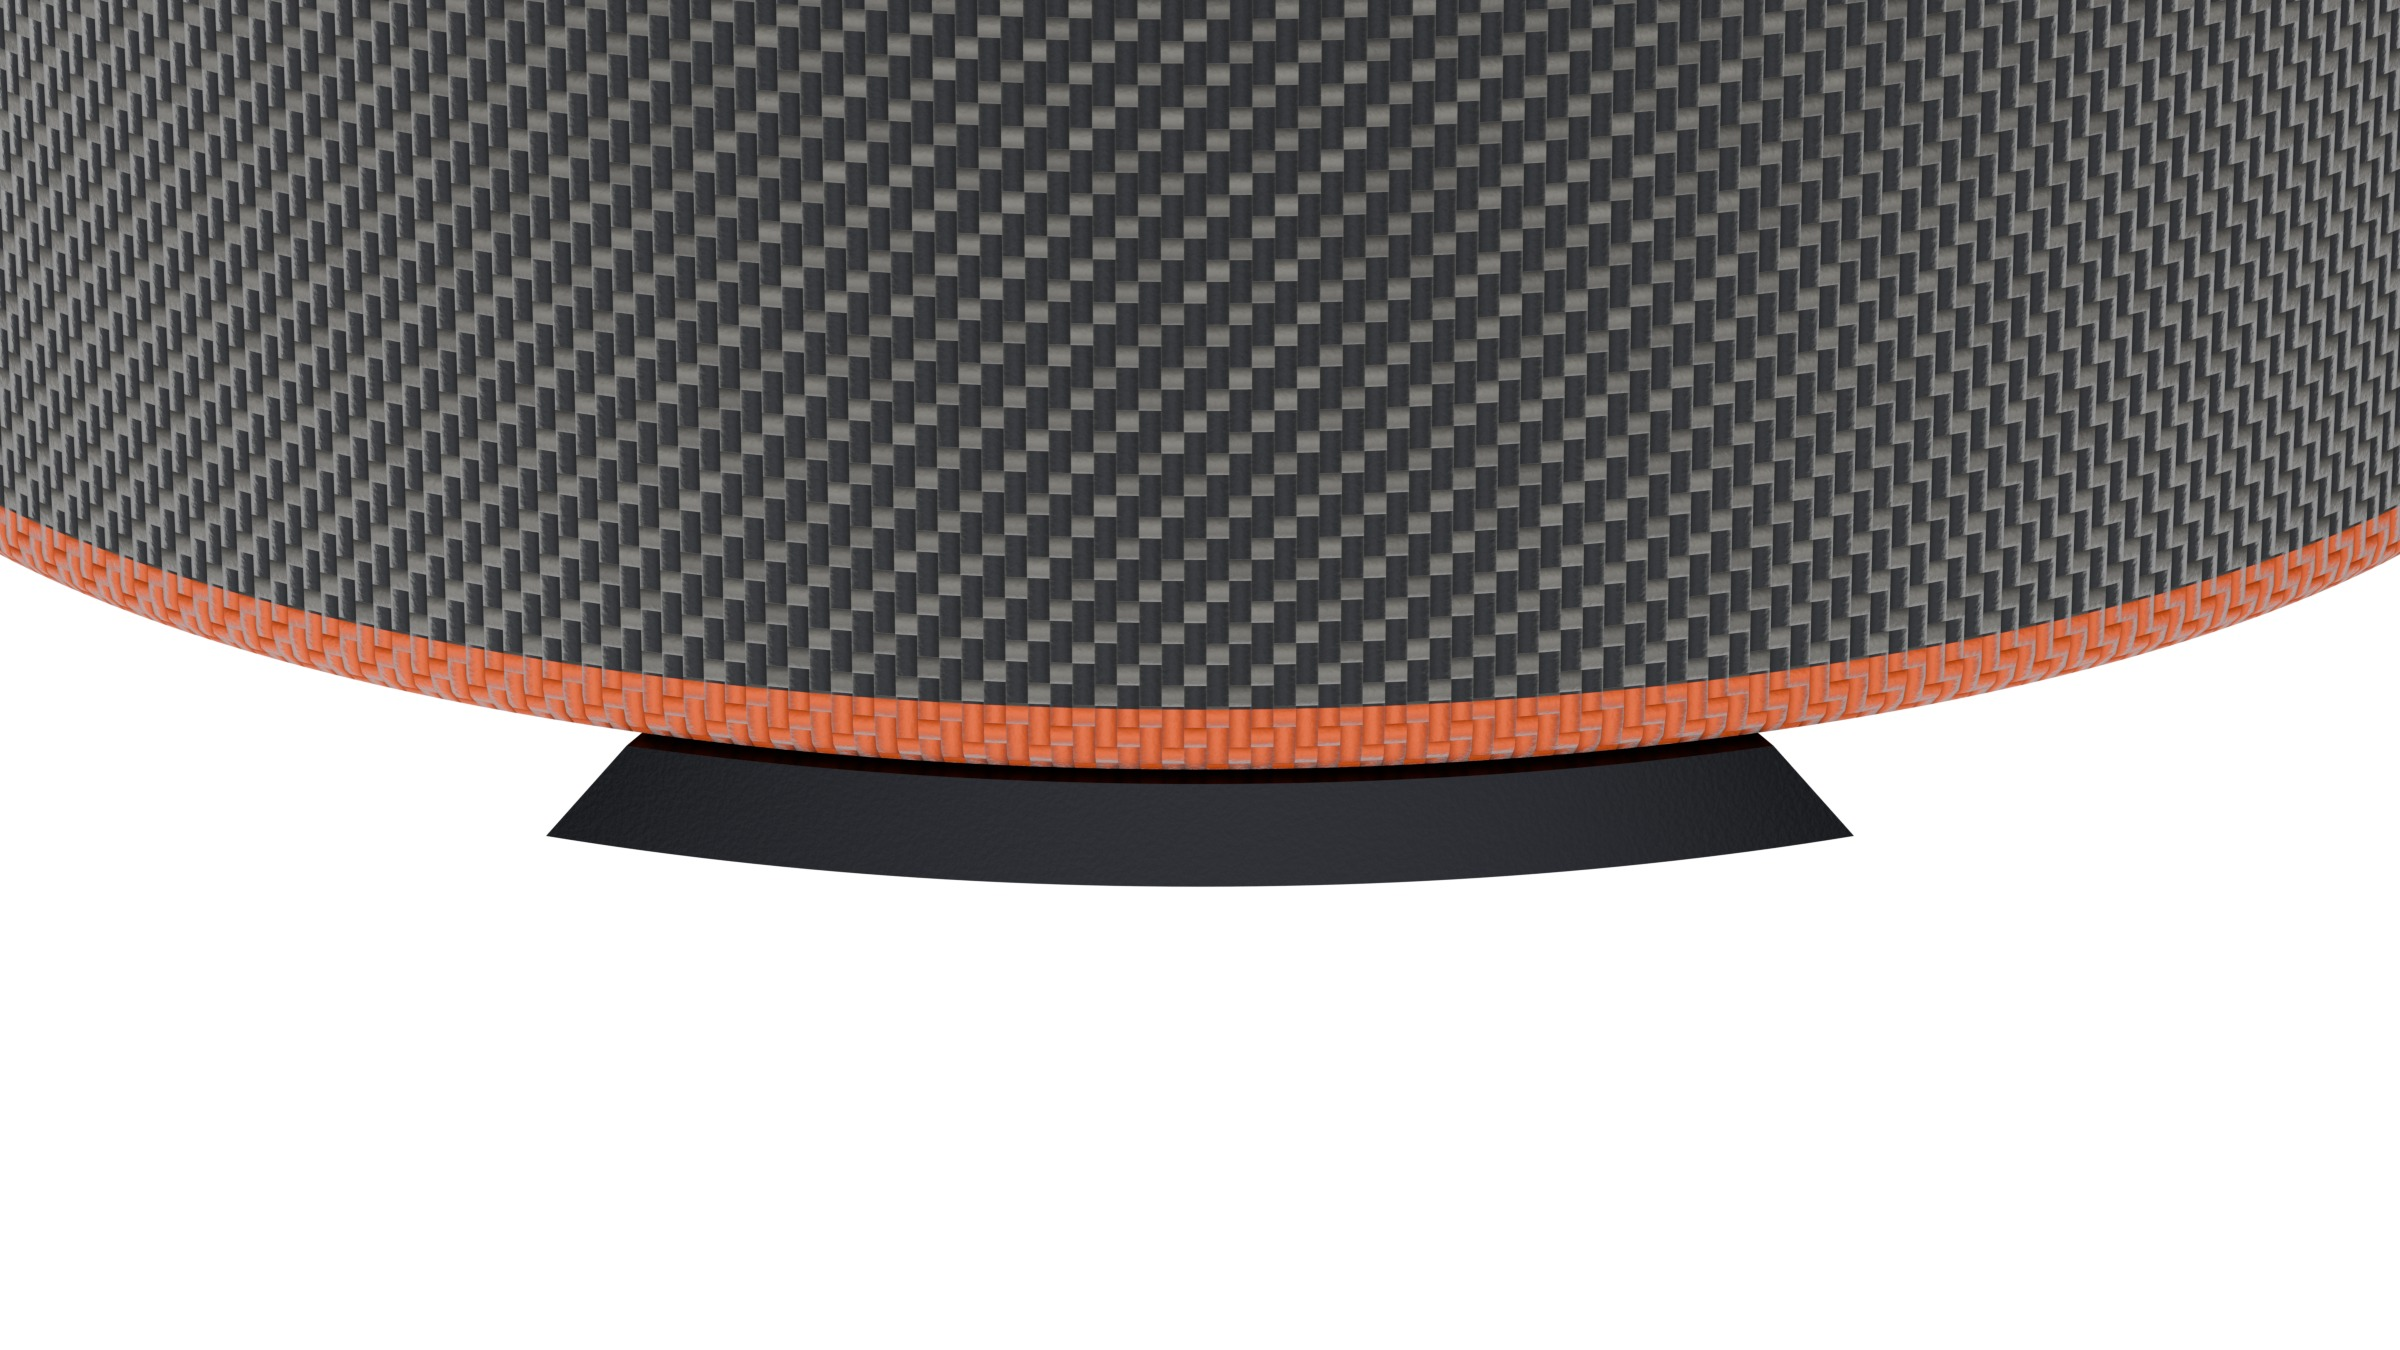
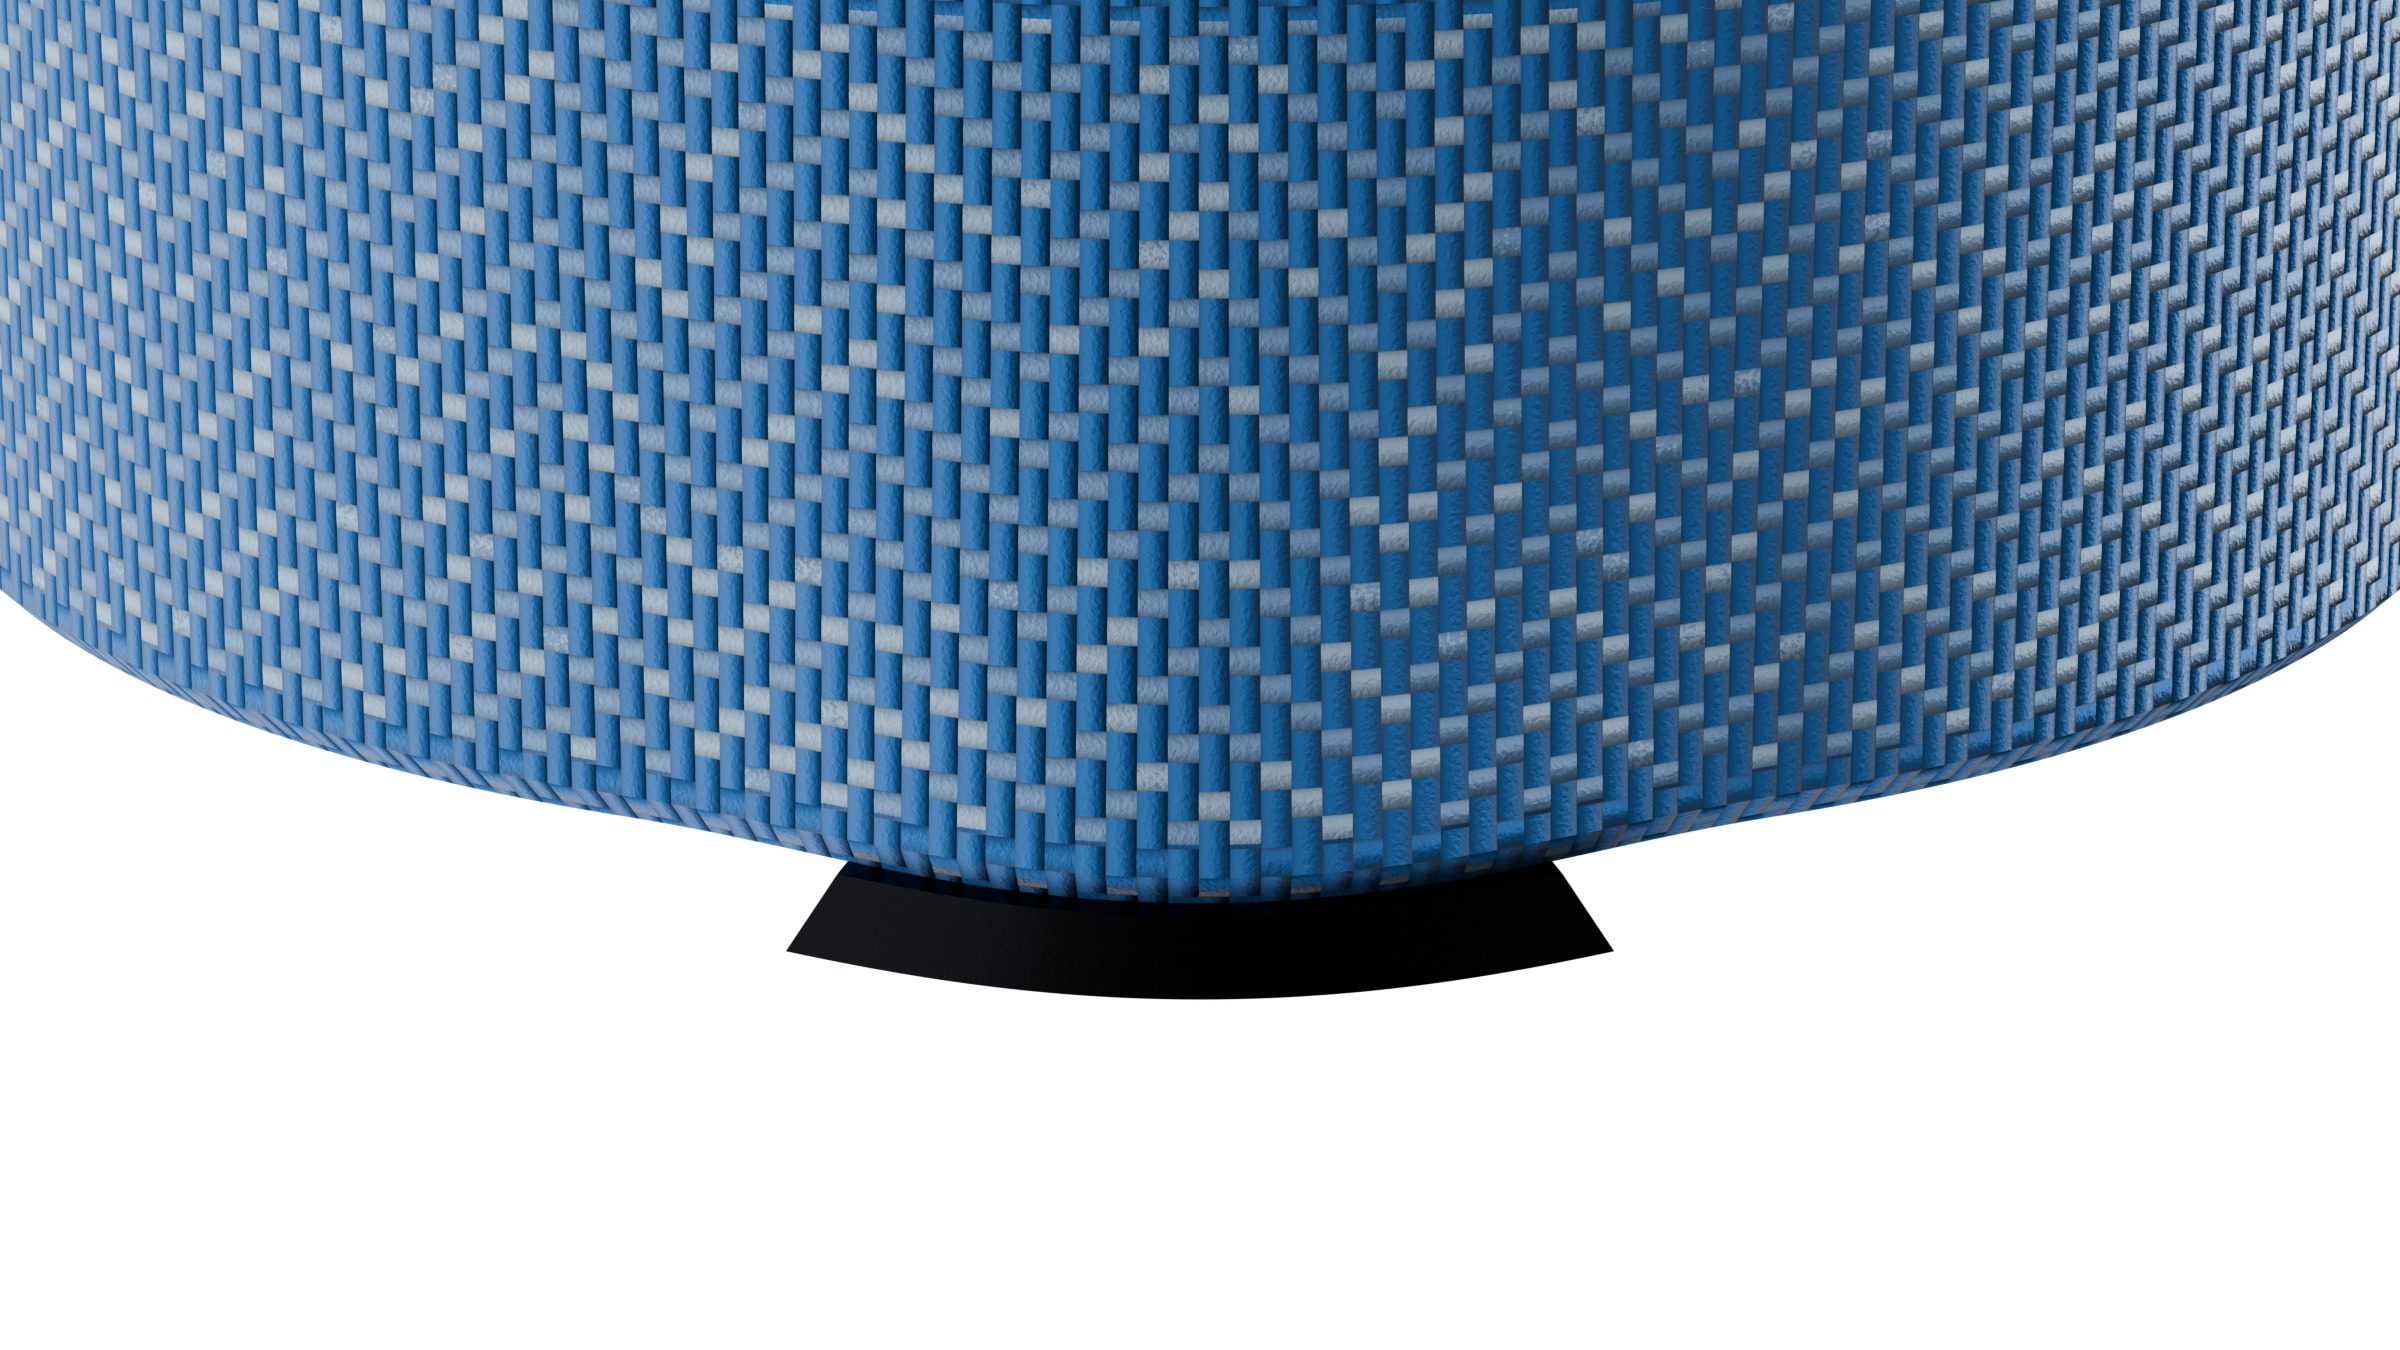
Deck: AuraWake sport-loop bracelet (steel loop, herringbone blue weave, wedge pod with charging foot)

diff --git a/deck/blender/aura.py b/deck/blender/aura.py
@@ -227,7 +227,7 @@ def fabric(name, color):
     nt.links.new(weave, bp.inputs['Height']); nt.links.new(bp.outputs[0], b.inputs['Normal'])
     return m
 
-def loop_fabric(name, dark, light, edge, R=0.031, h=0.020, lift=0.0018, p=0.00042):
+def loop_fabric(name, dark, light, edge, R=0.031, h=0.020, lift=0.0016, p=0.0006):
     """Woven strap, thread by thread: a 2/1 twill (diagonal), warp threads graphite, weft threads melange light grey,
     each thread rounded in the bump, fibre fuzz, the two edges woven in orange. Coordinates: u along the strap
     (angle x R), v across it (z)."""
@@ -247,7 +247,8 @@ def loop_fabric(name, dark, light, edge, R=0.031, h=0.020, lift=0.0018, p=0.0004
     v = P.outputs[2]
     fu, fv = op('DIVIDE', u, p), op('DIVIDE', v, p)
     iu, iv = op('FLOOR', fu), op('FLOOR', fv)
-    tw = op('FLOORED_MODULO', op('SUBTRACT', iu, iv), 3.0)
+    sgn = op('SUBTRACT', op('MULTIPLY', op('FLOORED_MODULO', op('FLOOR', op('DIVIDE', iu, 6.0)), 2.0), 2.0), 1.0)
+    tw = op('FLOORED_MODULO', op('ADD', iu, op('MULTIPLY', sgn, iv)), 3.0)   # herringbone twill
     weft = op('LESS_THAN', tw, 0.5)                       # weft on top in one cell of three, shifted each row: twill
     ru = op('SINE', op('MULTIPLY', op('FRACT', fu), math.pi))   # thread section, rounded
     rv = op('SINE', op('MULTIPLY', op('FRACT', fv), math.pi))
@@ -259,12 +260,13 @@ def loop_fabric(name, dark, light, edge, R=0.031, h=0.020, lift=0.0018, p=0.0004
     nt.links.new(h2, bp.inputs['Height']); nt.links.new(bp.outputs[0], b.inputs['Normal'])
     # colour: melange weft (light grey with fibre variation) over graphite warp; orange threads on both edges
     mel = nt.nodes.new('ShaderNodeMix'); mel.data_type = 'RGBA'; mel.inputs[6].default_value = light
-    mel.inputs[7].default_value = tuple(c * 0.55 for c in light[:3]) + (1,)
+    mel.inputs[6].default_value = tuple(0.5 * a + 0.5 * b for a, b in zip(dark[:3], light[:3])) + (1,)
+    mel.inputs[7].default_value = light
     cell = nt.nodes.new('ShaderNodeCombineXYZ'); nt.links.new(iu, cell.inputs[0]); nt.links.new(iv, cell.inputs[1])
     vn = nt.nodes.new('ShaderNodeTexWhiteNoise'); vn.noise_dimensions = '3D'; nt.links.new(cell.outputs[0], vn.inputs['Vector'])
-    nt.links.new(op('ADD', op('MULTIPLY', vn.outputs['Value'], 0.7), op('MULTIPLY', nz.outputs['Fac'], 0.3)), mel.inputs['Factor'])
+    nt.links.new(op('GREATER_THAN', op('ADD', op('MULTIPLY', vn.outputs['Value'], 0.8), op('MULTIPLY', nz.outputs['Fac'], 0.2)), 0.62), mel.inputs['Factor'])
     col_ = nt.nodes.new('ShaderNodeMix'); col_.data_type = 'RGBA'; col_.inputs[6].default_value = dark
-    nt.links.new(op('MULTIPLY', weft, 0.85), col_.inputs['Factor']); nt.links.new(mel.outputs[2], col_.inputs[7])
+    nt.links.new(weft, col_.inputs['Factor']); nt.links.new(mel.outputs[2], col_.inputs[7])
     edge_m = op('MAXIMUM', op('LESS_THAN', v, lift + 0.0015), op('GREATER_THAN', v, lift + h - 0.0015))
     fin = nt.nodes.new('ShaderNodeMix'); fin.data_type = 'RGBA'; fin.inputs[7].default_value = edge
     nt.links.new(col_.outputs[2], fin.inputs[6]); nt.links.new(edge_m, fin.inputs['Factor'])
@@ -276,7 +278,7 @@ def loop_fabric(name, dark, light, edge, R=0.031, h=0.020, lift=0.0018, p=0.0004
     return m
 
 TABLE = SHOT == 'table'
-STUDIO = SHOT in ('foot', 'persp_band', 'table', 'front', 'back', 'top', 'bottom', 'cable', 'persp', 'lit', 'band', 'persp_back')
+STUDIO = SHOT in ('pod_side', 'foot', 'persp_band', 'table', 'front', 'back', 'top', 'bottom', 'cable', 'persp', 'lit', 'band', 'persp_back')
 if MODE == 'real':
     MATS = {
         'body': body_real('body', srgb('#2c2d31')),
@@ -293,7 +295,8 @@ if MODE == 'real':
         'dots': emit('dots', srgb('#ffd9a0'), 7.0),
         'band': principled('band', srgb('#2a2b2f'), rough=0.62),
         'fabric': fabric('fabric', srgb('#1c1d20')),
-        'loop': loop_fabric('loop', srgb('#2a2b2f'), srgb('#76746f'), srgb('#d9592a')),
+        'loop': loop_fabric('loop', srgb('#3f7cc6'), srgb('#b3cfee'), srgb('#3f7cc6')),
+        'steel': bump_tex(principled('steel', srgb('#1c1d20'), metal=1.0, rough=0.36), 'noise', 9000, 0.04),
         'modalu': bump_tex(principled('modalu', srgb('#2c2d31'), metal=1.0, rough=0.38), 'noise', 9000, 0.05),
         'cable': bump_tex(principled('cable', srgb('#0e0e10'), rough=0.8), 'wave', 420, 0.5),
         'plug': principled('plug', srgb('#0a0a0b'), rough=0.6),
@@ -301,7 +304,7 @@ if MODE == 'real':
 else:
     T = {'alu': 0.86, 'grille': 0.42, 'rubber': 0.3, 'print': 0.4, 'pin': 0.75, 'band': 0.5, 'cable': 0.25, 'dots': 0.28,
          'led_front': 0.25, 'phone': 0.88, 'screen': 0.30, 'ui': 0.92, 'card': 0.5, 'metal': 0.74, 'glass': 0.98,
-         'frame': 0.96, 'fabric': 0.5, 'loop': 0.5, 'modalu': 0.4, 'slat': 0.80, 'pane': 0.90, 'cap': 0.70, 'plug': 0.3}
+         'frame': 0.96, 'fabric': 0.5, 'loop': 0.62, 'steel': 0.3, 'modalu': 0.4, 'slat': 0.80, 'pane': 0.90, 'cap': 0.70, 'plug': 0.3}
     MATS = {k: toon(k, grey(v)) for k, v in T.items()}
     MATS['body'] = body_toon('body', grey(0.86))
     MATS['shell'] = toon('shell', grey(0.86))
@@ -509,39 +512,44 @@ def frame(name, sx, sy, sz, bar, mat, loc):
     return [rbox(f'{name}{i}', w, d, sz, 0.0, 0.0004, mat, (x + dx, y + dy, z), sp=1, se=2) for i, (w, d, dx, dy) in enumerate((
         (sx, bar, 0, -(sy - bar) / 2), (sx, bar, 0, (sy - bar) / 2), (bar, sy, -(sx - bar) / 2, 0), (bar, sy, (sx - bar) / 2, 0)))]
 
-def strap_ring(name, R, h, t, z, flat=None, arc=None, n=240, cr=0.0009):
-    """Strap as a ring with the axis vertical (lying on its edge). flat=(angle, D) flattens it against the pod;
-    arc=(a0, a1) makes an open segment (the overlapping tail)."""
+def bulge_fn(ac, hw, amount):
+    """Outward swelling of the fabric over the sensor pod (cosine window around angle ac)."""
+    def b(a):
+        d = math.atan2(math.sin(a - ac), math.cos(a - ac))
+        return amount * 0.5 * (1 + math.cos(math.pi * d / hw)) if abs(d) < hw else 0.0
+    return b
+
+def strap_band(name, R, h, t, z, mat, bulge=None, arc=None, n=360, nz=12, cr=0.0008):
+    """Woven strap with its axis vertical (lying on its edge). Inner face (wrist side) stays a clean cylinder; over the
+    pod the outer face swells, most at the bottom edge and fading to nothing at the top edge (a wedge)."""
     bm = bmesh.new(); rings = []
     a0, a1 = arc if arc else (0.0, 2 * math.pi)
-    m = n if not arc else max(8, int(n * (a1 - a0) / (2 * math.pi)))
+    m = n if not arc else max(12, int(n * abs(a1 - a0) / (2 * math.pi)))
     for i in range(m + (1 if arc else 0)):
-        a = a0 + (a1 - a0) * i / m
-        r = R
-        if flat:
-            c = math.cos(a - flat[0])
-            if c > 1e-3: r = min(R, flat[1] / c)
-        pts = []
-        for (cx, cz, q0) in ((r - cr, z + h - cr, 0), (r - t + cr, z + h - cr, 90), (r - t + cr, z + cr, 180), (r - cr, z + cr, 270)):
-            for k in range(4):
-                q = math.radians(q0 + 90 * k / 3); pts.append((cx + cr * math.cos(q), cz + cr * math.sin(q)))
-        rings.append([bm.verts.new((rr * math.cos(a), rr * math.sin(a), zz)) for rr, zz in pts])
+        a = a0 + (a1 - a0) * i / m; b = bulge(a) if bulge else 0.0
+        prof = [(R - t, z + cr), (R - t, z + h - cr), (R - t + cr, z + h), (R - cr, z + h)]
+        for k in range(nz + 1):
+            zz = z + h - cr - (h - 2 * cr) * k / nz; zn = (zz - z) / h
+            prof.append((R + b * (1 - zn) ** 1.3, zz))
+        prof += [(R + b - cr, z), (R - t + cr, z)]
+        rings.append([bm.verts.new((r * math.cos(a), r * math.sin(a), zz)) for r, zz in prof])
     k = len(rings[0])
     for i in range(len(rings) - (1 if arc else 0)):
         A, B = rings[i], rings[(i + 1) % len(rings)]
         for q in range(k): bm.faces.new((A[q], A[(q + 1) % k], B[(q + 1) % k], B[q]))
     if arc:
-        for ring in (rings[0], rings[-1]): bm.faces.new(ring if ring is rings[-1] else list(reversed(ring)))
-    return link(name, bm, 'loop')
+        bm.faces.new(list(reversed(rings[0]))); bm.faces.new(rings[-1])
+    bmesh.ops.recalc_face_normals(bm, faces=bm.faces)
+    return link(name, bm, mat)
 
-def foot_bm(R, t, a0, a1, hgt, flare, spread=0.045, n=48):
-    """Charging foot under the strap's lower edge: flush with the inside (nothing touches the wrist), widening slightly
-    outward and along the strap as it goes down, to a flat contact face."""
+def foot_bm(R, t, a0, a1, hgt, flare, bulge, spread=0.03, n=64):
+    """Charging foot = the pod's lower end, out of the strap's lower edge: flush with the inside, as thick as the
+    fabric swelling at the bottom, widening slightly outward and along the strap to a flat contact face."""
     bm = bmesh.new(); rings = []
     for i in range(n + 1):
         k = i / n; at = a0 + (a1 - a0) * k; ab = a0 - spread + (a1 - a0 + 2 * spread) * k
         P = lambda a, r, z: bm.verts.new((r * math.cos(a), r * math.sin(a), z))
-        rings.append([P(at, R - t, hgt), P(at, R, hgt), P(ab, R + flare, 0.0), P(ab, R - t, 0.0)])
+        rings.append([P(at, R - t, hgt), P(at, R + bulge(at), hgt), P(ab, R + bulge(at) + flare, 0.0), P(ab, R - t, 0.0)])
     for i in range(n):
         A, B = rings[i], rings[i + 1]
         for q in range(4): bm.faces.new((A[q], A[(q + 1) % 4], B[(q + 1) % 4], B[q]))
@@ -549,17 +557,24 @@ def foot_bm(R, t, a0, a1, hgt, flare, spread=0.045, n=48):
     bmesh.ops.recalc_face_normals(bm, faces=bm.faces)
     return bm
 
-def build_bracelet(z0=0.0, R=0.031, h=0.020, t=0.0034, lift=0.0018):
-    """Woven loop strap (owner refs: Sport Loop), graphite melange with orange edges, closed, resting on its edge. The
-    sensor pod is woven into the strap (no bump inside); only its charging foot shows, under the lower edge."""
-    ap = math.radians(-60)
-    parts = [strap_ring('strap', R, h, t, lift)]
-    ad = ap + math.pi
-    parts.append(strap_ring('tail', R + t, h, t * 0.8, lift, arc=(ad - 0.05, ad + 1.25)))
-    parts.append(link('foot', foot_bm(R, t, ap - 0.36, ap + 0.36, lift, 0.0007), 'modalu'))
-    lp = frame('dring', 0.0074 + 2 * t, h + 0.0034, 0.0032, 0.0014, 'modalu', (0, 0, 0))
-    e = bpy.data.objects.new('dring', None); col.objects.link(e)
-    e.location = ((R + t / 2) * math.cos(ad), (R + t / 2) * math.sin(ad), lift + h / 2); e.rotation_euler = (math.pi / 2, 0, ad + math.pi / 2)
+AP = math.radians(20)   # sensor pod angle (back right); the steel loop sits opposite (front left)
+
+def build_bracelet(z0=0.0, R=0.031, h=0.020, t=0.0024, lift=0.0016):
+    """Sport-loop strap (owner ref): one woven band, fixed to a simple black satin steel loop, round the wrist, through
+    the loop, folded back and closed with hook-and-loop on the outside. The sensor pod is a wedge inside the weave,
+    opposite the loop: thick at the bottom, where it leaves the strap as the flat charging foot, thin at the top; the
+    fabric swells outward over it, the wrist side stays smooth."""
+    ad = AP + math.pi; tt = t * 0.9
+    bul = bulge_fn(AP, 0.42, 0.0026)
+    parts = [strap_band('strap', R, h, t, lift, 'loop', bulge=bul),
+             strap_band('tail', R + tt, h, tt, lift, 'loop', arc=(ad + 0.05, ad - 1.15))]
+    parts.append(link('foot', foot_bm(R, t, AP - 0.24, AP + 0.24, lift, 0.0006, bul), 'steel'))
+    # steel loop: plane = radial x vertical, around both layers, just past the fold
+    inner, outer = R - t - 0.0005, R + tt + 0.0005; bar = 0.0013
+    lp = frame('loopbar', (outer - inner) + 2 * bar, h + 0.0012 + 2 * bar, 0.0026, bar, 'steel', (0, 0, -0.0013))
+    e = bpy.data.objects.new('steelloop', None); col.objects.link(e)
+    rc, a = (inner + outer) / 2, ad + 0.06
+    e.location = (rc * math.cos(a), rc * math.sin(a), lift + h / 2); e.rotation_euler = (math.pi / 2, 0, a)
     for o in lp: o.parent = e
     parts.append(e)
     g = group('bracelet', parts); g.location.z = z0
@@ -682,8 +697,12 @@ def studio(view):
     if view == 'cable':
         build_cable(); fw, tgt, pos = 0.34, (0.115, 0, 0.016), (0.115, -1, 0.016)
     elif view == 'foot':
-        build_bracelet(); a = math.radians(-60); fw = 0.045
-        tgt = (0.031 * math.cos(a), 0.031 * math.sin(a), 0.004); pos = (0.031 * math.cos(a) * 3.2, 0.031 * math.sin(a) * 3.2, 0.03)
+        build_bracelet(); a = AP; fw = 0.05
+        tgt = (0.031 * math.cos(a), 0.031 * math.sin(a), 0.006); pos = (0.031 * math.cos(a) * 3.2, 0.031 * math.sin(a) * 3.2, 0.03)
+    elif view == 'pod_side':
+        build_bracelet(); a = AP; fw = 0.06
+        c = Vector((0.031 * math.cos(a), 0.031 * math.sin(a), 0.011)); tg = Vector((-math.sin(a), math.cos(a), 0))
+        tgt = tuple(c); pos = tuple(c + tg * 0.2 + Vector((math.cos(a), math.sin(a), 0)) * 0.012)
     elif view == 'band':
         build_bracelet(); fw, tgt, pos = 0.13, (0, 0, 0.011), (0.6, -0.9, 0.55)
     elif view in ('persp', 'lit', 'persp_back', 'persp_band'):
@@ -708,7 +727,7 @@ def studio(view):
     area('left', (-0.9, -0.5, 0.15), (0, 0, 0.02), 0.6, 35)
     area('right', (0.9, -0.5, 0.15), (0, 0, 0.02), 0.6, 35)
     area('cam', tuple(Vector(cam.location) * 0.9 + Vector((0, 0, 0.3))), tgt, 1.2, 25)
-    if view in ('persp', 'lit', 'band', 'persp_back', 'persp_band', 'foot'): area('front', tuple(Vector(cam.location) * 0.8 + Vector((-0.3, 0, 0.2))), tgt, 1.4, 40)
+    if view in ('persp', 'lit', 'band', 'persp_back', 'persp_band', 'foot', 'pod_side'): area('front', tuple(Vector(cam.location) * 0.8 + Vector((-0.3, 0, 0.2))), tgt, 1.4, 40)
     if view in ('persp', 'lit'):
         area('topback', (-0.1, 0.9, 0.9), (0, 0, 0.03), 1.6, 45)
         area('sidestrip', (1.0, 0.45, 0.25), (0, 0, 0.02), 0.5, 30)
